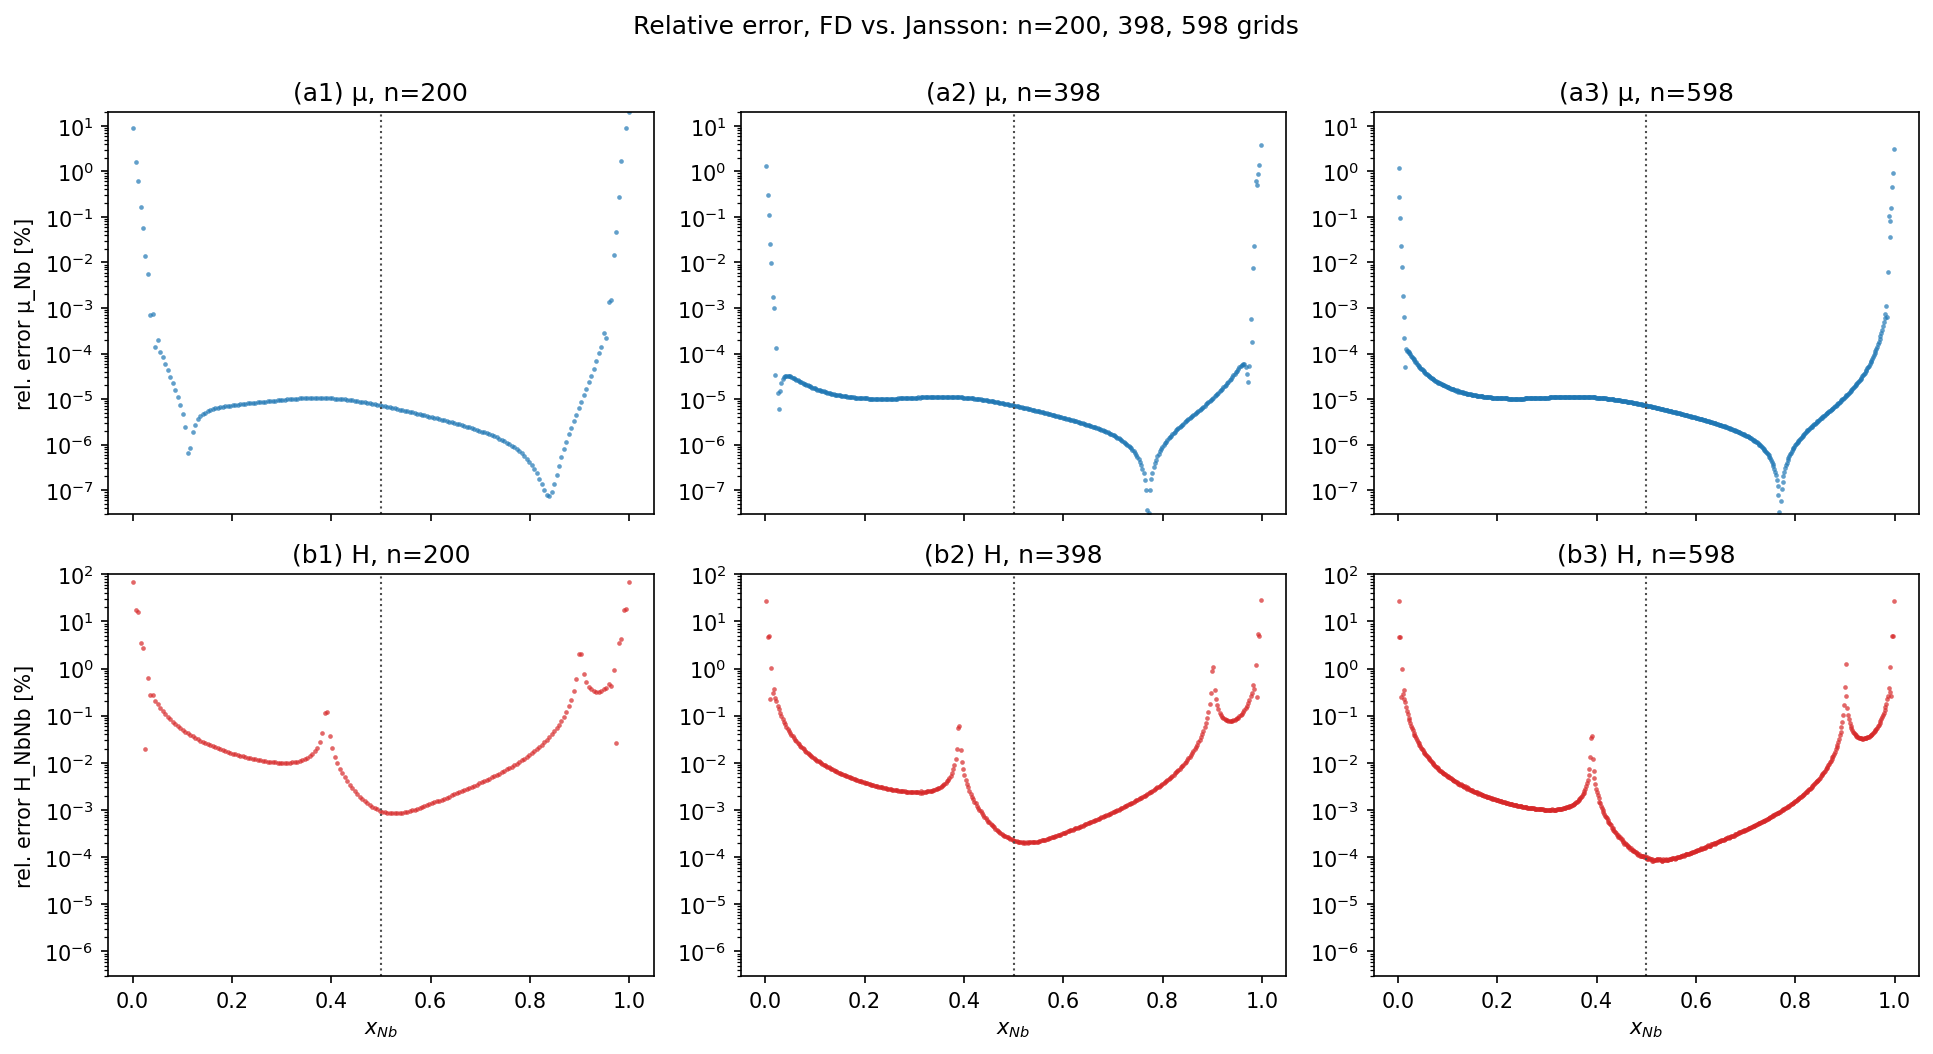
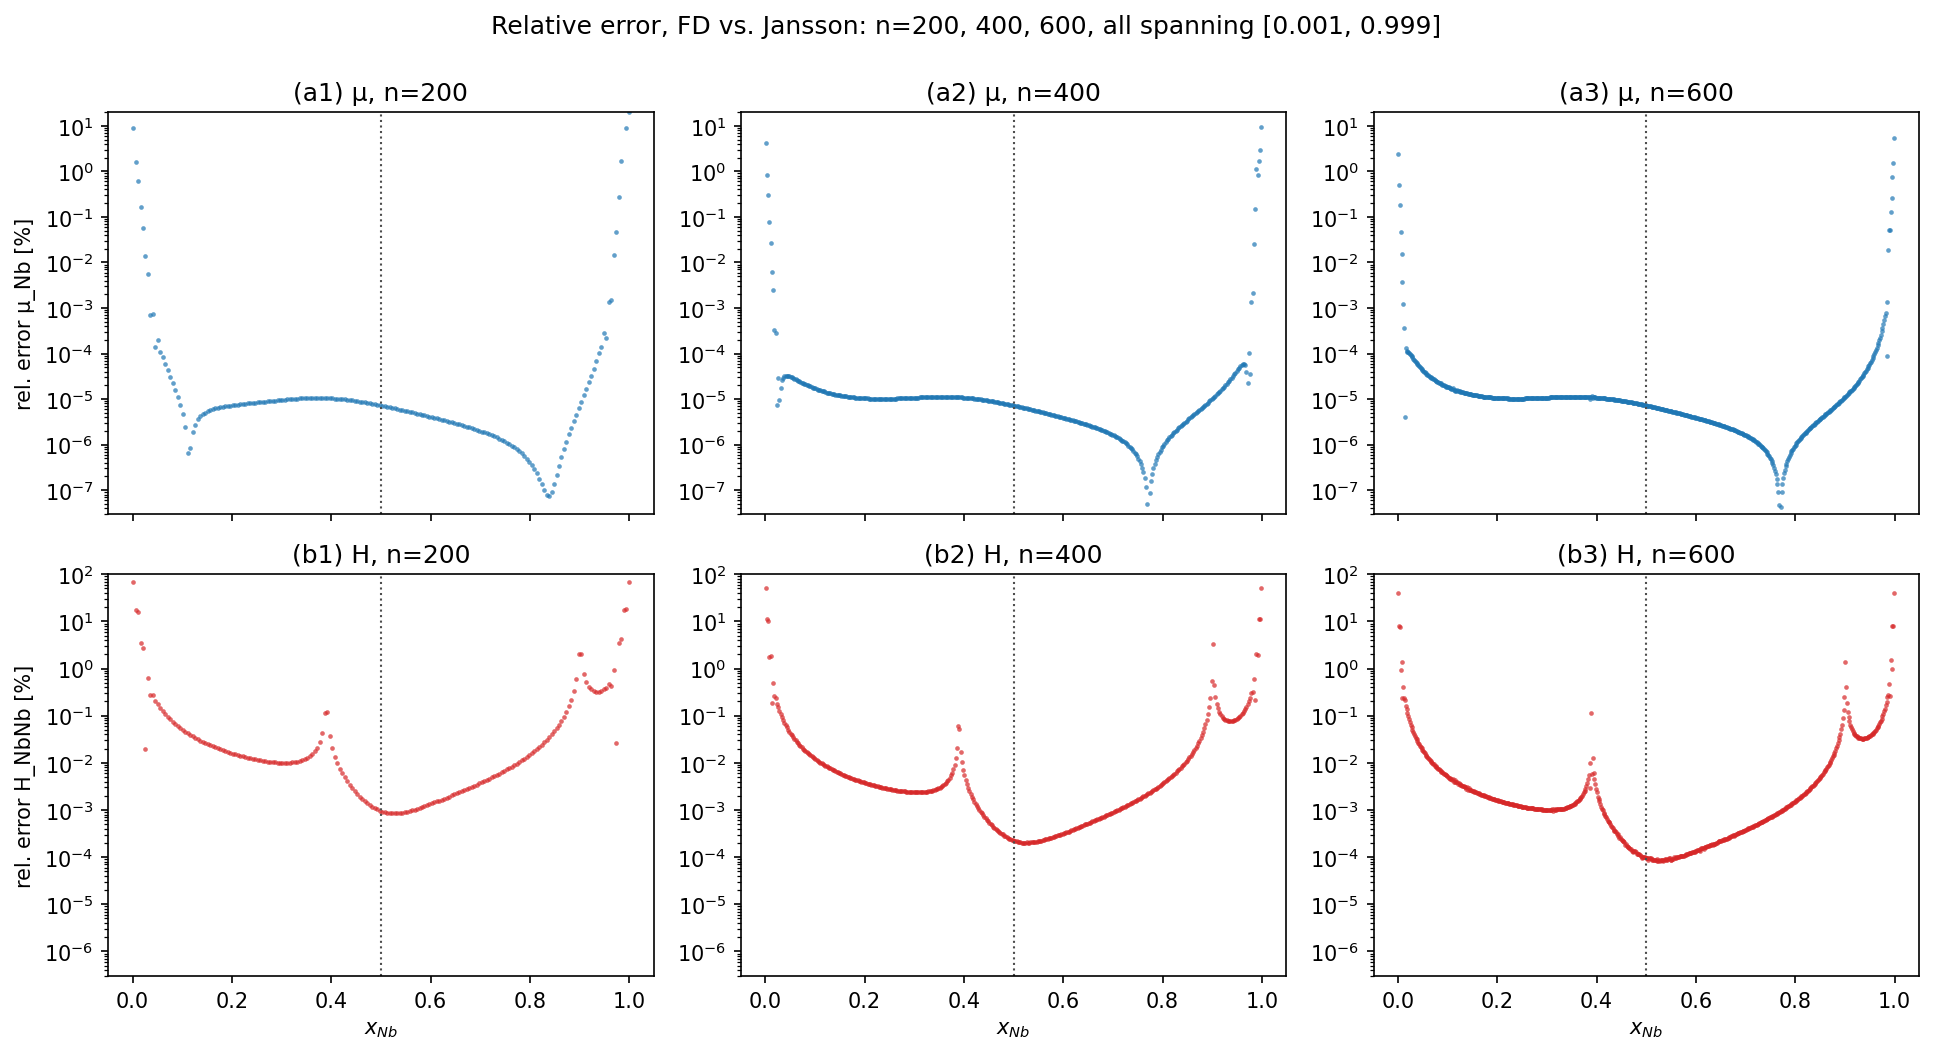
Regenerate grid-resolution comparison with consistent composition bounds
The previous n=398/598 figures used the pre-fix grid generator, whose
composition_ranges were silently shrunk ([0.0025,0.9975], [0.0017,0.9983])
rather than matching the canonical table's [0.001,0.999]. Rebuild at
n=400/600 with the grid.py fix, holding composition_ranges fixed so only
point density changes. The max-error comparison is now genuinely
apples-to-apples: all three grids share the same worst-point composition
(x_Nb=0.999, except the already-published n=200 table, noted explicitly),
so the observed drop (69.58% -> 52.12% -> 40.85%) is a real resolution
effect, not partly an artifact of the worst point moving.

diff --git a/docs/tutorial_derivative_validation.md b/docs/tutorial_derivative_validation.md
@@ -349,37 +349,42 @@ either implementation.
 Everything above uses the Nb-V table's default 200-point composition
 grid. Regenerating the same table at higher resolution (`thermo.n_points`
 in the Step 1 config, passed to the same `pycalphad`-backed pipeline —
-not a resampling of the existing data) shows which parts of this result
-are limited by grid density and which are not:
+not a resampling of the existing data), with `composition_ranges`
+held fixed at `[0.001, 0.999]` so only the point density changes, shows
+which parts of this result are limited by grid density and which are not:
 
-![Relative error at n=200, 398, and 598 composition grid points, shared y-axis per row](images/tutorial_derivative_validation/06_grid_resolution_comparison.png)
+![Relative error at n=200, 400, and 600 composition grid points, all spanning [0.001, 0.999], shared y-axis per row](images/tutorial_derivative_validation/06_grid_resolution_comparison.png)
 
-| | n = 200 | n = 398 | n = 598 |
+| | n = 200 | n = 400 | n = 600 |
 |---|---|---|---|
 | Median `μ` error | 0.000007% | 0.000010% | 0.000010% |
-| Median `H` error | 0.012758% | 0.003009% | 0.001284% |
-| Max `μ` error | 26.37% | 3.86% | 3.04% |
-| Max `H` error | 69.58% | 27.84% | 27.54% |
+| Median `H` error | 0.012758% | 0.003005% | 0.001280% |
+| Max `μ` error (at `x_Nb = 0.999`) | 26.37%\* | 9.28% | 5.37% |
+| Max `H` error (at `x_Nb = 0.999`) | 69.58% | 52.12% | 40.85% |
+
+\* n = 200's own worst point falls at `x_Nb = 0.989`, not exactly `0.999`,
+since that table is the one already published elsewhere on this site and
+was not regenerated here; n = 400 and 600 were built specifically for
+this comparison and share the exact same composition bounds, so their
+two columns are directly comparable point-for-point at the true edge.
 
 The two quantities respond differently, and the reason is the same
 knot-spacing argument used earlier in this section. `H`'s median error
 keeps dropping as the grid refines, roughly halving with each near-doubling
 of point density — the two independently-fit splines (one for `G_m`, used
 by FD; one for `MU`/`dMU`, used by Jansson) have less room to diverge
-between consecutive data points as those points move closer together.
+between consecutive data points as those points move closer together. The
+max error at the true edge (`x_Nb = 0.999`, identical for all three grids
+here) drops the same way, confirming this is a genuine resolution effect
+and not an artifact of the worst point moving to a different composition.
 `μ`'s median, by contrast, is flat at `~0.00001%` across all three
 resolutions: it is already limited by floating-point precision, not by
-grid density, so adding more points cannot improve it further. The max
-error at the true composition edge also drops with finer grids, but that
-comparison is not perfectly like-for-like — the outermost grid point
-itself moves slightly closer to the true boundary as `n` increases, so
-part of the improvement reflects a different edge composition being
-sampled, not only better resolution at a fixed point.
+grid density, so adding more points cannot improve it further.
 
 One further, narrower observation: the composition where `μ`'s relative
 error bottoms out (the sharp downward spike visible near `x_Nb ≈ 0.11` at
-n = 200, and near `x_Nb ≈ 0.77`–`0.78` at both n = 398 and n = 598) is not
-a physical feature of the system, unlike `H`'s spike at the spinodal
+n = 200, and near `x_Nb ≈ 0.77` at both n = 400 and n = 600) is not a
+physical feature of the system, unlike `H`'s spike at the spinodal
 boundary (`x_Nb ≈ 0.39`), which stays fixed across all three grids. At
 that `μ` crossing, the raw disagreement between FD and Jansson is already
 down at the floating-point noise floor (`~10⁻⁴` J/mol, against `μ` itself
